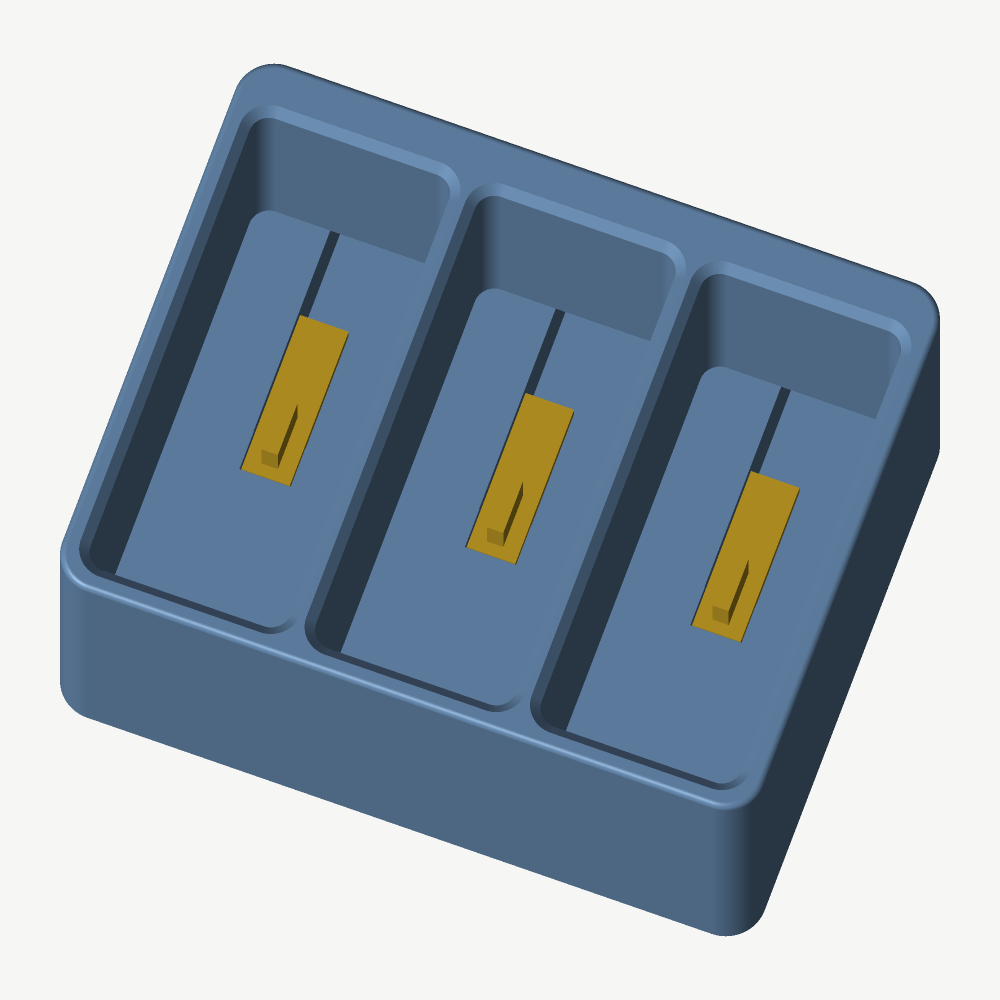
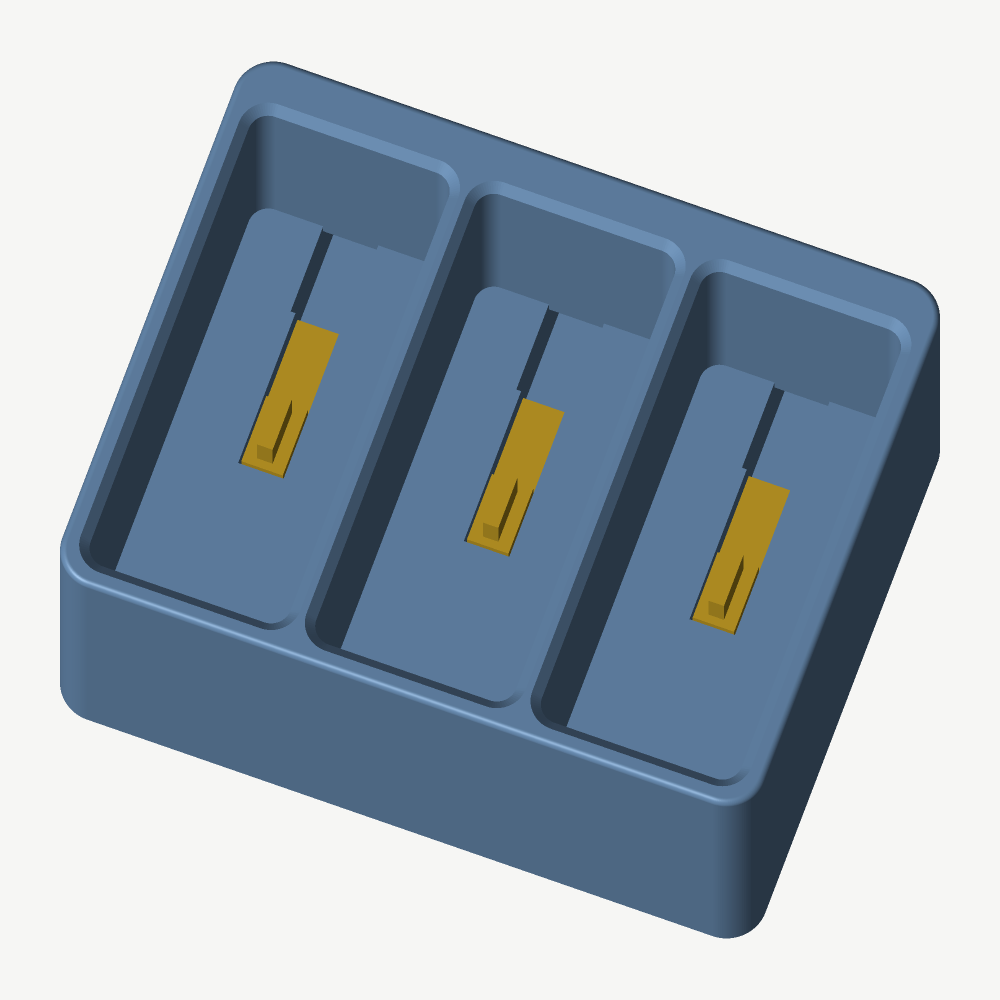
Fit the power bank dock to the measured adapter
Size the adapter pocket for the Silkland right-angle adapter, 24 x 21 x
6.4 mm with a 2.5 mm collar under its 6.5 mm plug, which will be hot
glued in. The cable is not chosen yet, so the tunnel takes any plug whose
overmould fits within 8.5 x 14 mm, and the adapter no longer relies on
the cable plug to hold it down.

Move each plug 0.75 mm off the slot's centre, where the bank's port
measures, and tighten the slots front to back to 0.2 mm per side after
the first test print rocked that way.

Show the standard preview at the top of the README, and redraw the
renders with the real adapter.

diff --git a/models/power-bank-dock/power-bank-dock.py b/models/power-bank-dock/power-bank-dock.py
@@ -1,10 +1,10 @@
 """Charging dock for three Amazon Basics 20,000 mAh power banks (B0FFM4BY6C).
 
 The banks stand on their port ends in a row, broad faces together, each in a
-slot with a right-angle USB-C adapter set into its floor. A bank slides down
+slot with a right-angle USB-C adapter glued into its floor. A bank slides down
 its slot onto the adapter's plug and comes to rest on the floor, so the floor
-carries its weight and the plug only makes the connection. A cable runs from
-the back of each adapter out through the back wall.
+carries its weight and the plug only makes the connection. A cable plugs into
+the back of each adapter through a tunnel in the back wall, and unplugs again.
 
 X runs along the row, Y from front to back and Z up. Each bank goes in with
 its USB-A port toward the front, -Y, as the label on each slot's floor shows.
@@ -23,72 +23,83 @@ from build123d import (
 )
 
 from common.export import export
+from common.preview import preview
 
 # The bank, standing on its port end, measured with calipers.
 BANK_THICKNESS = 30.0  # X
 BANK_WIDTH = 72.5  # Y
 
-# The ports sit on a panel flush with the end face: USB-A, then two USB-C,
-# all centred across the thickness. The dock charges through the nearer USB-C
-# port, this far from the USB-A edge. A bank put in backwards then lands on
-# plain panel between its ports, where the plug cannot catch; under the other
-# USB-C port, 53.9 mm in, a reversed bank would sit half over the USB-A port.
+# The ports sit on a panel flush with the end face: USB-A, then two USB-C.
+# The dock charges through the nearer USB-C port, this far from the USB-A
+# edge. A bank put in backwards then lands on plain panel between its ports,
+# where the plug cannot catch; under the other USB-C port, 53.9 mm in, a
+# reversed bank would sit half over the USB-A port.
 PORT_FROM_EDGE = 40.4
+
+# Across the thickness the port sits off centre, toward the broad face without
+# the charge LEDs: its centre is 13.7 mm from that face and 15.2 mm from the
+# LED face. Those add up to less than the thickness, so the port goes midway
+# between where each puts it. With USB-A toward the front, the LED face is on
+# the right, +X, so the port sits left of the slot's centre.
+PORT_FROM_PLAIN_FACE = 13.7
+PORT_FROM_LED_FACE = 15.2
+PORT_X = (PORT_FROM_PLAIN_FACE - PORT_FROM_LED_FACE) / 2
 
 # Slots. The bank's corners were not measured; the slot's corners are kept
 # well under what the photos show, so that the bank's flat faces locate it.
-CLEARANCE = 0.4  # per side; choose from the clearance test
+# The first test print, at 0.4 mm all round, let the bank rock front to back.
+CLEARANCE_X = 0.4  # per side, across the thickness
+CLEARANCE_Y = 0.2  # per side, front to back
 SLOT_RADIUS = 3
 LEAD_IN = 1.5  # chamfer around each slot's mouth
-SLOT_X = BANK_THICKNESS + 2 * CLEARANCE
-SLOT_Y = BANK_WIDTH + 2 * CLEARANCE
+SLOT_X = BANK_THICKNESS + 2 * CLEARANCE_X
+SLOT_Y = BANK_WIDTH + 2 * CLEARANCE_Y
 SLOTS = 3
 
 # Body.
 WALL = 4  # outside walls and between slots
-BACK_WALL = 8  # roofs the cable plugs; see below
+BACK_WALL = 8  # around the cable tunnels
 WALL_HEIGHT = 45  # above the floor
 MIN_SKIN = 1.5  # under the adapter pockets and cable tunnels
 CORNER_RADIUS = 6  # outside vertical edges
 TOP_FILLET = 1  # outside top edges
 LABEL_DEPTH = 0.6
 
-# Right-angle USB-C adapter, male to female, bent within the plane of the
-# plug's broad faces: the whole adapter is a flat L. Its plug points up, and
-# its body runs toward the back with the female end facing back.
-# PLACEHOLDERS: measure an adapter and replace these.
-ADAPTER_THICKNESS = 7.5  # X
-ADAPTER_HEIGHT = 13  # Z, the body below the plug
-ADAPTER_FRONT = 6  # Y, from the plug's centre to the body's front end
-ADAPTER_BACK = 19  # Y, from the plug's centre to the female end's face
-SOCKET_DEPTH = 6.5  # from the body's top face down to the socket's centre
-ADAPTER_DROP = 0.3  # the body's top below the floor, so the bank rests on it
-POCKET_CLEARANCE = 0.2  # per side, which lets the plug float into the port
+# Right-angle USB-C adapter (Silkland), male to female, bent within the plane
+# of the plug's broad faces: a flat L, 24 x 21 x 6.4 mm overall. From the
+# bottom up it is a 12 mm body, a 2.5 mm collar round the plug's root, and
+# 6.5 mm of plug. The plug points up near the body's front end; the female
+# socket, upright in the back end, faces back.
+ADAPTER_THICKNESS = 6.4  # X
+ADAPTER_LENGTH = 24  # Y
+ADAPTER_HEIGHT = 21  # Z, from the body's bottom to the plug's tip
+PLUG_LENGTH = 6.5  # above the collar
+PLUG_FROM_FRONT = 5.5  # Y, the plug's centre from the body's front end
+SOCKET_HEIGHT = 5.5  # the socket's centre above the body's bottom
+# The collar's top sits this far below the floor, so that the bank rests on
+# the floor and the plug reaches PLUG_LENGTH - ADAPTER_DROP into its port.
+ADAPTER_DROP = 0.3
+# Per side around the body, which lets the plug find the port when the
+# adapter is glued in with a bank seated on it.
+POCKET_CLEARANCE = 0.3
 
-# The C-to-C cable's plug, which enters the adapter's female end through a
-# tunnel in the back wall. Pulling a bank out pulls up on the adapter; the
-# cable plug's overmould, held under the tunnel's roof, keeps it in place.
-# PLACEHOLDERS, as above. The female end's broad faces stand upright.
-CABLE_PLUG_THICKNESS = 7  # X
-CABLE_PLUG_HEIGHT = 12.5  # Z
-CABLE_PLUG_LENGTH = 22  # Y, the overmould
-CABLE_CLEARANCE = 0.5  # per side
-MIN_ROOF = 3  # length of overmould under the back wall
+# The cable is not chosen yet. The tunnel through the back wall, centred on
+# the socket, passes any C-to-C plug whose overmould fits through it.
+TUNNEL_WIDTH = 8.5  # X
+TUNNEL_HEIGHT = 14  # Z
 
-TUNNEL_HALF_HEIGHT = CABLE_PLUG_HEIGHT / 2 + CABLE_CLEARANCE
+BELOW_PLUG = ADAPTER_HEIGHT - PLUG_LENGTH  # the collar's top above the bottom
+SOCKET_Z = SOCKET_HEIGHT - BELOW_PLUG  # from the collar's top
 
 # The floor's top sits high enough to leave MIN_SKIN under each pocket and
 # tunnel.
-FLOOR = MIN_SKIN + max(
-    ADAPTER_DROP + ADAPTER_HEIGHT,
-    ADAPTER_DROP + SOCKET_DEPTH + TUNNEL_HALF_HEIGHT,
-)
+FLOOR = MIN_SKIN + ADAPTER_DROP + max(BELOW_PLUG, -SOCKET_Z + TUNNEL_HEIGHT / 2)
 DOCK_Y = WALL + SLOT_Y + BACK_WALL
 
 SLOT_FRONT_Y = -DOCK_Y / 2 + WALL
 SLOT_BACK_Y = SLOT_FRONT_Y + SLOT_Y
 SLOT_CENTER_Y = (SLOT_FRONT_Y + SLOT_BACK_Y) / 2
-PLUG_Y = SLOT_FRONT_Y + CLEARANCE + PORT_FROM_EDGE
+PLUG_Y = SLOT_FRONT_Y + CLEARANCE_Y + PORT_FROM_EDGE
 LABEL_Y = SLOT_FRONT_Y + 8
 
 # The clearance test: a short block with a slot at each clearance, open top
@@ -104,11 +115,7 @@ SINGLE_WALL_HEIGHT = 20
 
 BOTTOM = (Align.CENTER, Align.CENTER, Align.MIN)
 
-assert PLUG_Y + ADAPTER_BACK + CABLE_PLUG_LENGTH >= SLOT_BACK_Y + MIN_ROOF, (
-    "The cable plug's overmould stops short of the back wall, so nothing holds "
-    "the adapter down: lengthen BACK_WALL or check the adapter's dimensions"
-)
-assert PLUG_Y + ADAPTER_BACK + POCKET_CLEARANCE < SLOT_BACK_Y, (
+assert PLUG_Y + ADAPTER_LENGTH - PLUG_FROM_FRONT + POCKET_CLEARANCE < SLOT_BACK_Y, (
     "The adapter runs past the back of the slot, under the back wall"
 )
 
@@ -120,11 +127,11 @@ def box(x0: float, x1: float, y0: float, y1: float, z0: float, z1: float) -> Par
     )
 
 
-def slot(clearance: float, depth: float) -> Part:
+def slot(clearance_x: float, clearance_y: float, depth: float) -> Part:
     """A slot for one bank, to subtract from a top face at (x, y, top). It
     runs down depth from there, with a lead-in at its mouth."""
     outline = RectangleRounded(
-        BANK_THICKNESS + 2 * clearance, BANK_WIDTH + 2 * clearance, SLOT_RADIUS
+        BANK_THICKNESS + 2 * clearance_x, BANK_WIDTH + 2 * clearance_y, SLOT_RADIUS
     )
     # The lead-in widens at 45 degrees and carries on above the top face, so
     # that the cut never shares a face with it.
@@ -135,29 +142,30 @@ def slot(clearance: float, depth: float) -> Part:
 
 def adapter_cut() -> Part:
     """The adapter's pocket and its cable's channel, to subtract with the
-    plug's centre at (x, PLUG_Y) and the adapter's top face at z = 0."""
+    plug's centre at (x, y) and the collar's top at z = 0."""
     half_x = ADAPTER_THICKNESS / 2 + POCKET_CLEARANCE
+    to_back = ADAPTER_LENGTH - PLUG_FROM_FRONT
     pocket = box(
         -half_x,
         half_x,
-        -ADAPTER_FRONT - POCKET_CLEARANCE,
-        ADAPTER_BACK + POCKET_CLEARANCE,
-        -ADAPTER_HEIGHT,
+        -PLUG_FROM_FRONT - POCKET_CLEARANCE,
+        to_back + POCKET_CLEARANCE,
+        -BELOW_PLUG,
         ADAPTER_DROP + 1,
     )
     # Under the slot the channel is open to the floor, which needs no bridge;
     # through the back wall it becomes a tunnel with a roof.
-    half_x = CABLE_PLUG_THICKNESS / 2 + CABLE_CLEARANCE
-    bottom = -SOCKET_DEPTH - TUNNEL_HALF_HEIGHT
+    half_x = TUNNEL_WIDTH / 2
+    bottom = SOCKET_Z - TUNNEL_HEIGHT / 2
     to_slot_back = SLOT_BACK_Y - PLUG_Y
-    channel = box(-half_x, half_x, 0, to_slot_back, bottom, ADAPTER_DROP + 1)
+    channel = box(-half_x, half_x, to_back, to_slot_back, bottom, ADAPTER_DROP + 1)
     tunnel = box(
         -half_x,
         half_x,
         to_slot_back - 1,
         DOCK_Y,
         bottom,
-        -SOCKET_DEPTH + TUNNEL_HALF_HEIGHT,
+        SOCKET_Z + TUNNEL_HEIGHT / 2,
     )
     return pocket + channel + tunnel
 
@@ -180,8 +188,10 @@ def build_dock(slots: int, wall_height: float) -> Part:
     dock = fillet(dock.edges().group_by(Axis.Z)[-1], radius=TOP_FILLET)
     for i in range(slots):
         x = (i - (slots - 1) / 2) * (SLOT_X + WALL)
-        dock -= Pos(x, SLOT_CENTER_Y, height) * slot(CLEARANCE, wall_height)
-        dock -= Pos(x, PLUG_Y, FLOOR - ADAPTER_DROP) * adapter_cut()
+        dock -= Pos(x, SLOT_CENTER_Y, height) * slot(
+            CLEARANCE_X, CLEARANCE_Y, wall_height
+        )
+        dock -= Pos(x + PORT_X, PLUG_Y, FLOOR - ADAPTER_DROP) * adapter_cut()
         dock -= engraving("USB-A", x, LABEL_Y, FLOOR)
     return dock
 
@@ -199,11 +209,14 @@ for i, clearance in enumerate(TEST_CLEARANCES):
     x = (i - (len(TEST_CLEARANCES) - 1) / 2) * test_pitch
     slot_front = -test_y / 2 + TEST_LABEL_WALL
     y = slot_front + BANK_WIDTH / 2 + clearance
-    clearance_test -= Pos(x, y, TEST_HEIGHT) * slot(clearance, TEST_HEIGHT + 1)
+    clearance_test -= Pos(x, y, TEST_HEIGHT) * slot(
+        clearance, clearance, TEST_HEIGHT + 1
+    )
     label_y = -test_y / 2 + TEST_LABEL_WALL / 2
     clearance_test -= engraving(f"{clearance}", x, label_y, TEST_HEIGHT)
 
 if __name__ == "__main__":
     export(clearance_test, __file__, variant="clearance-test")
     export(single, __file__, variant="single")
+    preview(dock, __file__)
     export(dock, __file__)

diff --git a/models/power-bank-dock/README.md b/models/power-bank-dock/README.md
@@ -1,5 +1,7 @@
 # Power bank dock
 
+![The dock from the front left and the back right](preview.png)
+
 A desk dock that charges three
 [Amazon Basics 20,000 mAh power banks](https://www.amazon.com/dp/B0FFM4BY6C)
 at once. The banks stand on their port ends in a row, broad faces together.
@@ -7,41 +9,41 @@ Each slides down a slot onto a USB-C plug set into the slot's floor, and comes
 to rest on the floor, so the floor takes its weight and the plug only makes the
 connection.
 
-![Two banks docked and a third lifted out](images/assembled.png)
+The renders below show the adapters in gold. The cutaway runs through the
+middle slot's plug.
 
-The renders show placeholder adapters in gold and cable plugs in grey, at the
-dimensions in the model. The cutaway runs through the middle slot's plug.
-
-| From above | Cutaway | From behind |
+| Two docked, one lifted out | From above | Cutaway |
 | --- | --- | --- |
-| ![Empty dock with adapters](images/empty.png) | ![Section through a slot](images/cutaway.png) | ![Cable tunnels in the back wall](images/back.png) |
+| ![Two banks docked and a third lifted out](images/assembled.png) | ![Empty dock with adapters](images/empty.png) | ![Section through a slot](images/cutaway.png) |
 
 The one-slot dock, for testing an adapter, cable and bank before printing all
 three:
 
-| From above | From behind |
-| --- | --- |
-| ![One-slot dock with its adapter and cable plug](images/single.png) | ![One-slot dock's cable tunnel](images/single-back.png) |
+![One-slot dock with its adapter](images/single.png)
 
 ## Status
 
-Not yet printed. The dock is 108 x 85 x 60 mm. The banks stand 45 mm deep in
+Not yet printed. The dock is 108 x 85 x 63 mm. The banks stand 45 mm deep in
 their slots, leaving about 69 mm of each above the walls to grab.
 
 The bank measures 72.5 x 30.0 x 114.2 mm. Its ports sit on a panel flush with
-the end face, centred across the thickness: USB-A, then two USB-C. The dock
-charges through the nearer USB-C port, 40.4 mm from the USB-A edge, so each
-bank goes in with its USB-A port toward the front, as the label on each slot's
-floor shows. A bank put in backwards lands on plain panel between its ports,
-where the plug cannot catch. Under the other USB-C port, a reversed bank would
-sit half over the USB-A port.
+the end face: USB-A, then two USB-C. The dock charges through the nearer USB-C
+port, 40.4 mm from the USB-A edge, so each bank goes in with its USB-A port
+toward the front, as the label on each slot's floor shows. A bank put in
+backwards lands on plain panel between its ports, where the plug cannot catch.
+Under the other USB-C port, a reversed bank would sit half over the USB-A port.
+
+Across the thickness the port sits 0.75 mm off centre, toward the broad face
+without the charge LEDs: 13.7 mm from that face and 15.2 mm from the LED face.
+With USB-A toward the front, the LED face is on the right, judged from the
+product photos, so each plug sits 0.75 mm left of its slot's centre.
+
+A first test print, at 0.4 mm clearance all round and 10 mm tall, let the bank
+rock front to back. The slots now have 0.2 mm clearance per side front to back
+and 0.4 mm across the thickness.
 
 The bank's corner radius was not measured. The slots' corners, at 3 mm, are
 kept well under what the photos show, so that the flat faces locate the bank.
-
-**The adapter and cable dimensions are placeholders.** Replace them in
-`power-bank-dock.py` with measurements from the real parts before printing the
-dock.
 
 ## Outputs
 
@@ -52,44 +54,44 @@ dock.
   slot at each of 0.2, 0.3, 0.4 and 0.5 mm clearance per side, labelled and
   open top and bottom.
 - `power-bank-dock-single.stl` and `.step`: a dock with one slot and 20 mm
-  walls, 39 x 85 x 35 mm, otherwise identical to the full dock: the same
+  walls, 39 x 85 x 38 mm, otherwise identical to the full dock: the same
   floor, adapter pocket, cable channel and tunnel. Its walls are tall enough
   to guide a bank onto the plug and hold it upright.
 
 ## Hardware
 
-- Three right-angle USB-C adapters, male to female, rated for 100 W / 5 A. The
-  bend must lie within the plane of the plug's broad faces, so that the whole
-  adapter is a flat L about as thick as the plug. The plug points up and the
-  body runs toward the back. Buy three identical ones.
-- Three short USB-C to USB-C cables, with straight plugs.
+- Three Silkland right-angle USB-C adapters, male to female: a flat L,
+  24 x 21 x 6.4 mm. From the bottom up, a 12 mm body, a 2.5 mm collar round
+  the plug's root and 6.5 mm of plug. The plug's centre is 5.5 mm from the
+  body's front end, and the female socket's centre 5.5 mm above its bottom.
+- Three USB-C to USB-C cables, not yet chosen. The tunnel through the back
+  wall takes a straight plug whose overmould fits within 8.5 x 14 mm.
 - A USB-C charger with at least three ports.
 - Stick-on rubber feet for the flat underside.
 
-Each adapter drops into its pocket from above, plug up, with its female end
-facing back. Its cable's plug goes in through the tunnel in the back wall and
-into the adapter. The cable plug's overmould sits under the tunnel's roof,
-which keeps the adapter from lifting out when you pull a bank up. If it still
-lifts, a dab of hot glue in the pocket will hold it.
+Each adapter drops into its pocket from above, plug up and female end facing
+back, and rests on the pocket's bottom. Its collar then sits 0.3 mm below the
+floor, so the plug reaches 6.2 mm into a bank's port. Hot-glue it in place
+along the pocket's sides, not underneath, where glue would lift the plug. To
+line the plug up with the port, glue it with a bank seated on it: the pocket
+leaves 0.3 mm each side for the adapter to move. The cable plugs into the
+adapter through the tunnel and stays removable.
 
 ## Before printing
 
-1. Print the clearance test and push a bank through each slot. Choose the
-   tightest one it slides through without forcing, and set `CLEARANCE` to that
-   value.
-2. Measure an adapter and a cable plug, and replace the placeholder dimensions.
-   `ADAPTER_DROP` sets how far below the floor the adapter's top face sits; the
-   plug's metal shell must still reach fully into the bank's port.
-3. Print the one-slot dock and fit an adapter and cable. Drop a bank in, USB-A
-   toward the label, and check that:
+1. Optionally print the clearance test and push a bank through each slot. The
+   tightest slot it slides through without forcing gives `CLEARANCE_X` and
+   `CLEARANCE_Y`.
+2. Print the one-slot dock and glue in an adapter. Drop a bank in, USB-A toward
+   the label, and check that:
    - it slides onto the plug and sits flat on the floor. If it rests on the
      plug instead, the port is not where the model puts it: check
-     `PORT_FROM_EDGE` and that the port is centred across the thickness;
-   - it charges;
-   - the adapter stays in its pocket when you lift the bank out.
-4. Print the full dock.
+     `PORT_FROM_EDGE`, and which face the port is nearer;
+   - it charges through a cable plugged in at the back;
+   - it doesn't rock front to back.
+3. Print the full dock.
 
 ## Printing
 
 PLA or PETG, printed upright with the floor on the bed. Nothing needs supports:
-the pockets and channels open upward, and the tunnels' roofs bridge 8 mm.
+the pockets and channels open upward, and the tunnels' roofs bridge 8.5 mm.
